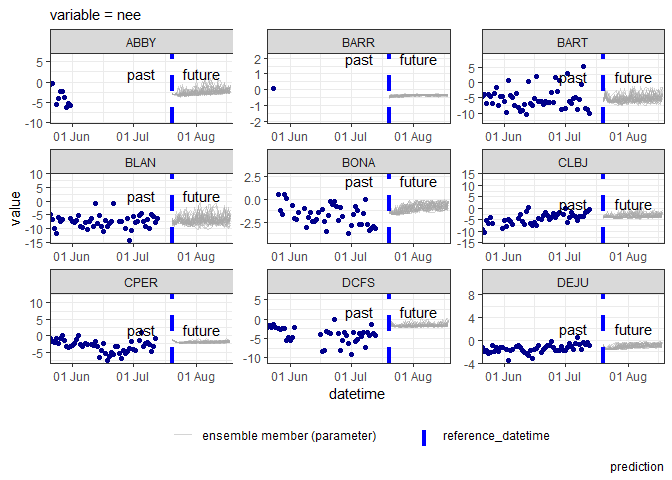
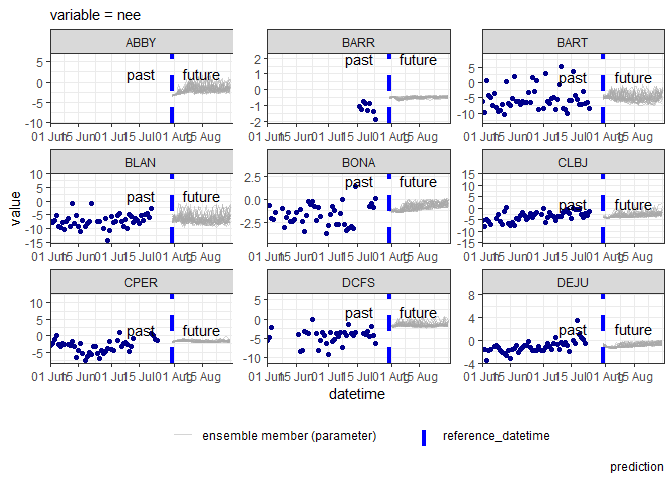
update rmd

diff --git a/NEON_forecast_challenge_workshop_terrestrial.md b/NEON_forecast_challenge_workshop_terrestrial.md
@@ -25,7 +25,6 @@
 -   <a href="#model-1-linear-model-with-covariates"
     id="toc-model-1-linear-model-with-covariates">5 Model 1: Linear model
     with covariates</a>
-    -   <a href="#a-forecast" id="toc-a-forecast">5.0.1 A forecast!!</a>
     -   <a href="#convert-to-efi-standard-for-submission"
         id="toc-convert-to-efi-standard-for-submission">5.1 Convert to EFI
         standard for submission</a>
@@ -359,7 +358,7 @@ head(noaa_past_mean_example)
     ## 2 2020-09-26 HARV               12.9      205.
     ## 3 2020-09-27 HARV               13.3      104.
     ## 4 2020-09-28 HARV               14.6      145.
-    ## 5 2020-09-29 HARV               13.3      118.
+    ## 5 2020-09-29 HARV               13.3      117.
     ## 6 2020-09-30 HARV               13.1      117.
 
 We can then look at the future weather forecasts in the same way but
@@ -397,16 +396,16 @@ noaa_future_example
     ## # A tibble: 43,200 × 12
     ##    site_id prediction variable      height horizon parameter reference_datetime 
     ##    <chr>        <dbl> <chr>         <chr>    <dbl>     <int> <dttm>             
-    ##  1 HARV             0 surface_down… surfa…      24         1 2023-07-19 00:00:00
-    ##  2 HARV             0 surface_down… surfa…      25         1 2023-07-19 00:00:00
-    ##  3 HARV             0 surface_down… surfa…      26         1 2023-07-19 00:00:00
-    ##  4 HARV             0 surface_down… surfa…      27         1 2023-07-19 00:00:00
-    ##  5 HARV             0 surface_down… surfa…      28         1 2023-07-19 00:00:00
-    ##  6 HARV             0 surface_down… surfa…      29         1 2023-07-19 00:00:00
-    ##  7 HARV             0 surface_down… surfa…      30         1 2023-07-19 00:00:00
-    ##  8 HARV             0 surface_down… surfa…      31         1 2023-07-19 00:00:00
-    ##  9 HARV             0 surface_down… surfa…      32         1 2023-07-19 00:00:00
-    ## 10 HARV             0 surface_down… surfa…      33         1 2023-07-19 00:00:00
+    ##  1 HARV             0 surface_down… surfa…      24         1 2023-07-30 00:00:00
+    ##  2 HARV             0 surface_down… surfa…      25         1 2023-07-30 00:00:00
+    ##  3 HARV             0 surface_down… surfa…      26         1 2023-07-30 00:00:00
+    ##  4 HARV             0 surface_down… surfa…      27         1 2023-07-30 00:00:00
+    ##  5 HARV             0 surface_down… surfa…      28         1 2023-07-30 00:00:00
+    ##  6 HARV             0 surface_down… surfa…      29         1 2023-07-30 00:00:00
+    ##  7 HARV             0 surface_down… surfa…      30         1 2023-07-30 00:00:00
+    ##  8 HARV             0 surface_down… surfa…      31         1 2023-07-30 00:00:00
+    ##  9 HARV             0 surface_down… surfa…      32         1 2023-07-30 00:00:00
+    ## 10 HARV             0 surface_down… surfa…      33         1 2023-07-30 00:00:00
     ## # ℹ 43,190 more rows
     ## # ℹ 5 more variables: forecast_valid <chr>, datetime <dttm>, longitude <dbl>,
     ## #   latitude <dbl>, family <chr>
@@ -433,16 +432,16 @@ noaa_future_daily_example
     ## # Groups:   datetime, site_id, parameter [900]
     ##    datetime   site_id air_temperature shortwave parameter
     ##    <date>     <chr>             <dbl>     <dbl>     <int>
-    ##  1 2023-07-20 HARV               21.0      292.         1
-    ##  2 2023-07-20 HARV               20.9      288.         2
-    ##  3 2023-07-20 HARV               20.7      310.         3
-    ##  4 2023-07-20 HARV               20.3      318.         4
-    ##  5 2023-07-20 HARV               21.1      291.         5
-    ##  6 2023-07-20 HARV               20.8      264.         6
-    ##  7 2023-07-20 HARV               20.8      280          7
-    ##  8 2023-07-20 HARV               21.0      312.         8
-    ##  9 2023-07-20 HARV               20.1      276          9
-    ## 10 2023-07-20 HARV               21.1      286.        10
+    ##  1 2023-07-31 HARV               17.8      248.         1
+    ##  2 2023-07-31 HARV               17.6      250.         2
+    ##  3 2023-07-31 HARV               17.9      282.         3
+    ##  4 2023-07-31 HARV               17.8      220          4
+    ##  5 2023-07-31 HARV               18.5      273.         5
+    ##  6 2023-07-31 HARV               14.9      104.         6
+    ##  7 2023-07-31 HARV               17.7      243.         7
+    ##  8 2023-07-31 HARV               17.6      285.         8
+    ##  9 2023-07-31 HARV               17.5      321          9
+    ## 10 2023-07-31 HARV               19.1      260         10
     ## # ℹ 890 more rows
 
 Now we have a timeseries of historic data and a 30 member ensemble
@@ -477,14 +476,14 @@ tail(targets_lm_example)
 ```
 
     ## # A tibble: 6 × 5
-    ##   datetime   site_id   nee air_temperature shortwave
-    ##   <date>     <chr>   <dbl>           <dbl>     <dbl>
-    ## 1 2023-07-07 HARV    -5.19            23.6      340.
-    ## 2 2023-07-08 HARV    -7.33            22.8      290.
-    ## 3 2023-07-09 HARV    -4.06            20.6      123.
-    ## 4 2023-07-11 HARV    -9.10            21.2      331 
-    ## 5 2023-07-12 HARV    -8.70            23.4      306.
-    ## 6 2023-07-13 HARV    -9.39            22.4      301.
+    ##   datetime   site_id    nee air_temperature shortwave
+    ##   <date>     <chr>    <dbl>           <dbl>     <dbl>
+    ## 1 2023-07-19 HARV     -8.51            21.5      309.
+    ## 2 2023-07-20 HARV     -7.53            21.1      287.
+    ## 3 2023-07-21 HARV     -2.73            20.0      253.
+    ## 4 2023-07-22 HARV    -10.8             19.5      339.
+    ## 5 2023-07-23 HARV     -8.60            20.8      341 
+    ## 6 2023-07-24 HARV     -7.12            21.7      308.
 
 To fit the linear model we use the base R `lm()` but there are also
 methods to fit linear (and non-linear) models in the `fable::` package.
@@ -532,7 +531,7 @@ forecasted_nee <- fit$coefficients[1] +
   # select(model_id, datetime, reference_datetime, site_id, family, parameter, variable, prediction)
 ```
 
-### 5.0.1 A forecast!!
+**A forecast!!**
 
 We can loop through this workflow for each site to create a site-wise
 forecast of NEE based on a linear model and each forecasted air
@@ -564,7 +563,7 @@ noaa_date <- forecast_date - days(1)
 df_future <- neon4cast::noaa_stage2(start_date = as.character(noaa_date))
 ```
 
-    ## establishing connection to stage2/parquet/0/2023-07-19 at data.ecoforecast.org ...
+    ## establishing connection to stage2/parquet/0/2023-07-30 at data.ecoforecast.org ...
     ## connected! Use dplyr functions to filter and summarise.
     ## Then, use collect() to read result into R
 
@@ -846,7 +845,7 @@ forecast_file_1 <- paste(theme, date, forecast_name_1, sep = '-')
 forecast_file_1
 ```
 
-    ## [1] "terrestrial_daily-2023-07-19-ESA_example.csv"
+    ## [1] "terrestrial_daily-2023-07-30-ESA_example.csv"
 
 ``` r
 if (!dir.exists('Forecasts')) {
@@ -857,7 +856,7 @@ write_csv(lm_forecast_EFI, file.path('Forecasts', forecast_file_1))
 neon4cast::forecast_output_validator(file.path('Forecasts', forecast_file_1))
 ```
 
-    ## Forecasts/terrestrial_daily-2023-07-19-ESA_example.csv
+    ## Forecasts/terrestrial_daily-2023-07-30-ESA_example.csv
 
     ## ✔ file name is correct
     ## ✔ forecasted variables found correct variable + prediction column
